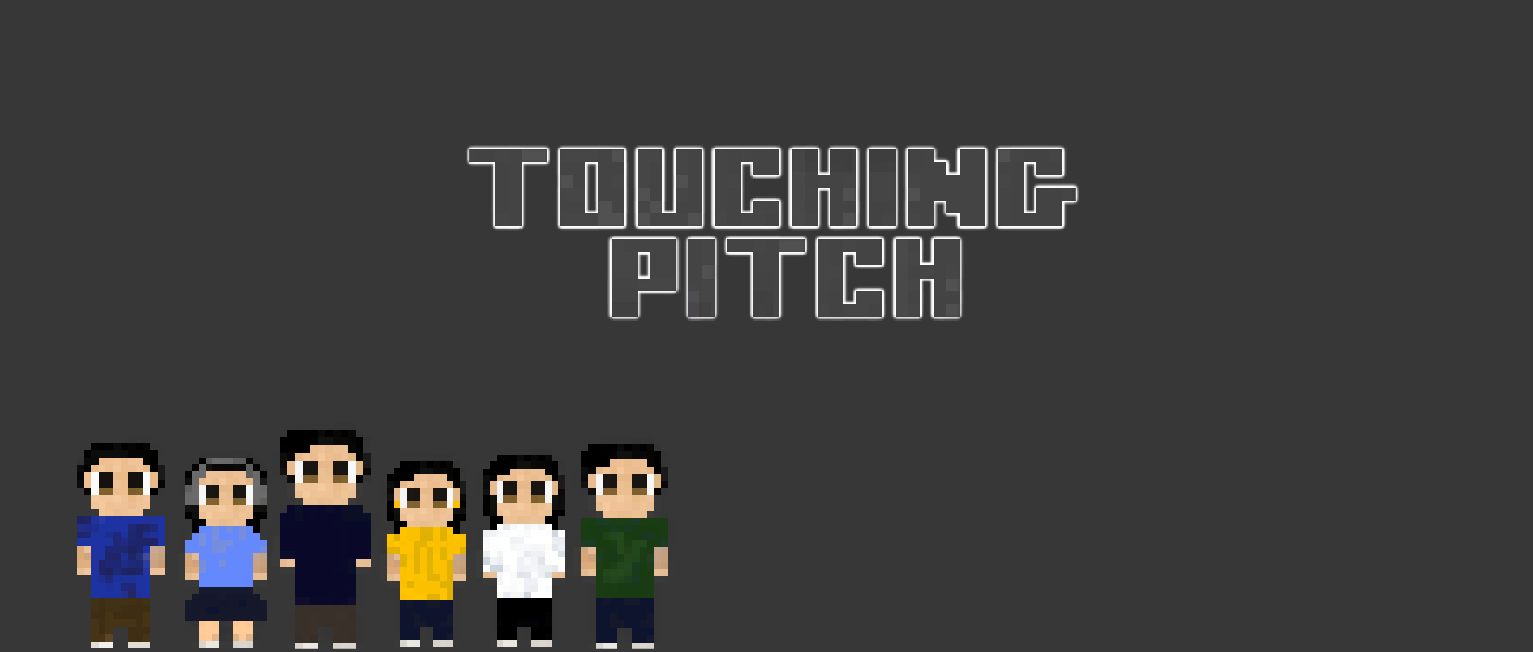
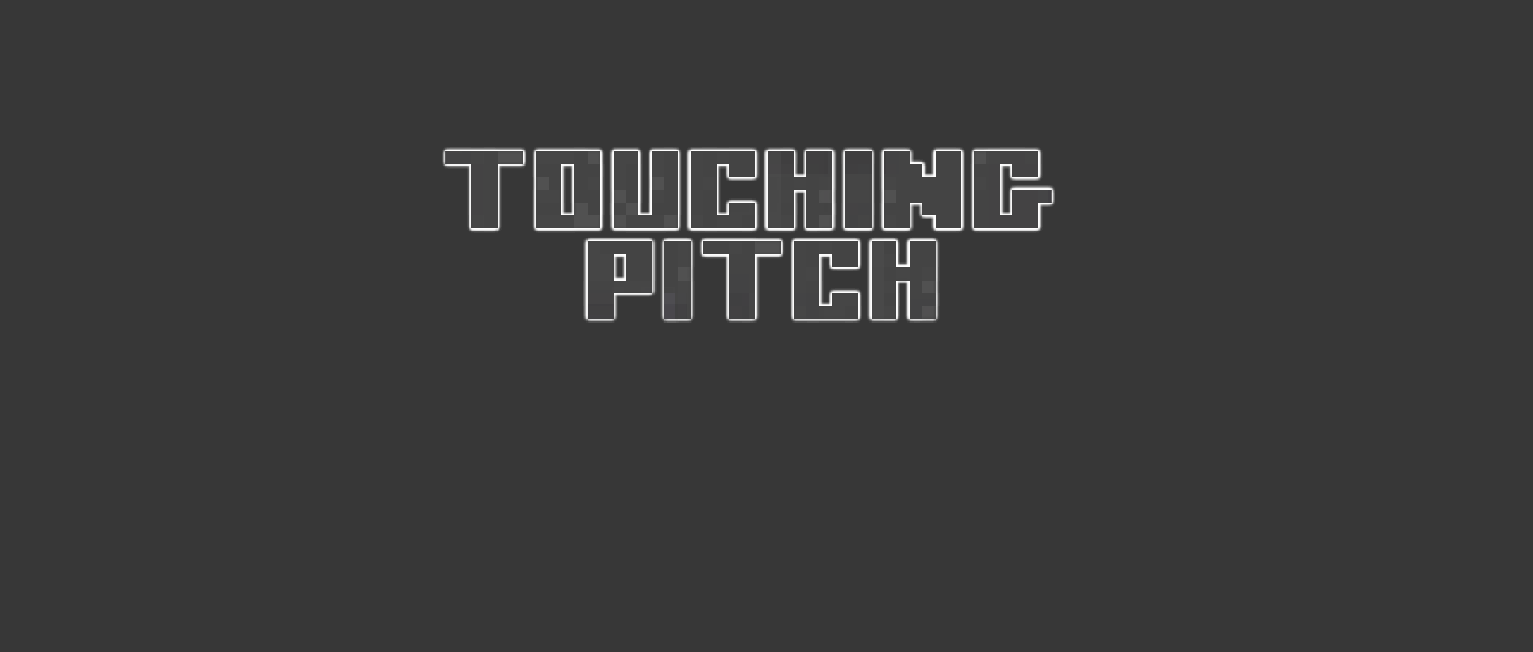
walking animations

Changed region(s): [[0.0307, 0.6442, 0.4599, 1.0], [0.2759, 0.2147, 0.7052, 0.5215]]

diff --git a/css/style.css b/css/style.css
@@ -1806,3 +1806,85 @@ background: #F9F9F9;
 width: 99%;
 }
 }
+
+
+#andrew{
+    background:url(../img/andrewwalking.png);
+    margin-top: 222px;
+    width: 130px;
+    height: 235px;
+    animation:walk 1s steps(8) infinite,
+                forward 12s linear infinite;
+
+}
+
+
+#grace{
+    background:url(../img/gracewalking.png);
+    margin-top: -234px;
+    margin-left: -100px;
+    width: 120px;
+    height: 235px;
+    animation:walk 1s steps(8) infinite,
+                forward 12s linear infinite;
+}
+
+#peggy{
+    background:url(../img/peggywalking.png);
+    margin-top: -236px;
+    margin-left: -200px;
+    width: 120px;
+    height: 235px;
+    animation:walk 1s steps(8) infinite,
+                forward 12s linear infinite;
+}
+
+#conan{
+    background:url(../img/conanwalking.png);
+    margin-top: -240px;
+    margin-left: -300px;
+    width: 120px;
+    height: 235px;
+    animation:walk 1s steps(8) infinite,
+                forward 12s linear infinite;
+}
+
+#sky{
+    background:url(../img/skywalking.png);
+    margin-top: -235px;
+    margin-left: -400px;
+    width: 120px;
+    height: 235px;
+    animation:walk 1s steps(8) infinite,
+                forward 12s linear infinite;
+}
+
+#william{
+    background:url(../img/williamchengwalking.png);
+    margin-top: -235px;
+    margin-left: -500px;
+    width: 120px;
+    height: 235px;
+    animation:walk 1s steps(8) infinite,
+                forward 12s linear infinite;
+}
+
+
+@keyframes walk{
+    0%{background-position: 0px;
+    }
+    100%{background-position: 952px;
+    }
+}
+
+@keyframes forward{
+    0%{transform:translateX(-400px);}
+    100%{transform:translateX(1700px);}
+}
+
+
+
+
+
+
+

diff --git a/index.html b/index.html
@@ -56,6 +56,13 @@
         <div class="row">
           <div class="col-md-12">
             <div class="top_left_cont zoomIn wow animated">
+              <div id="andrew"></div>
+              <div id="grace"></div>
+              <div id="peggy"></div>
+              <div id="conan"></div>
+              <div id="sky"></div>
+              <div id="william"></div>
+            </div>
           </div> 
         </div>
       </div>
@@ -122,7 +129,7 @@
 
 
 
-<section id="team" class="page_section.team" id="team"><!--main-section team-start-->
+<section id="team" class="pagesectionteam" id="team"><!--main-section team-start-->
   <div class="container">
     <h2>The Team</h2>
     <div class="team_section clearfix">
